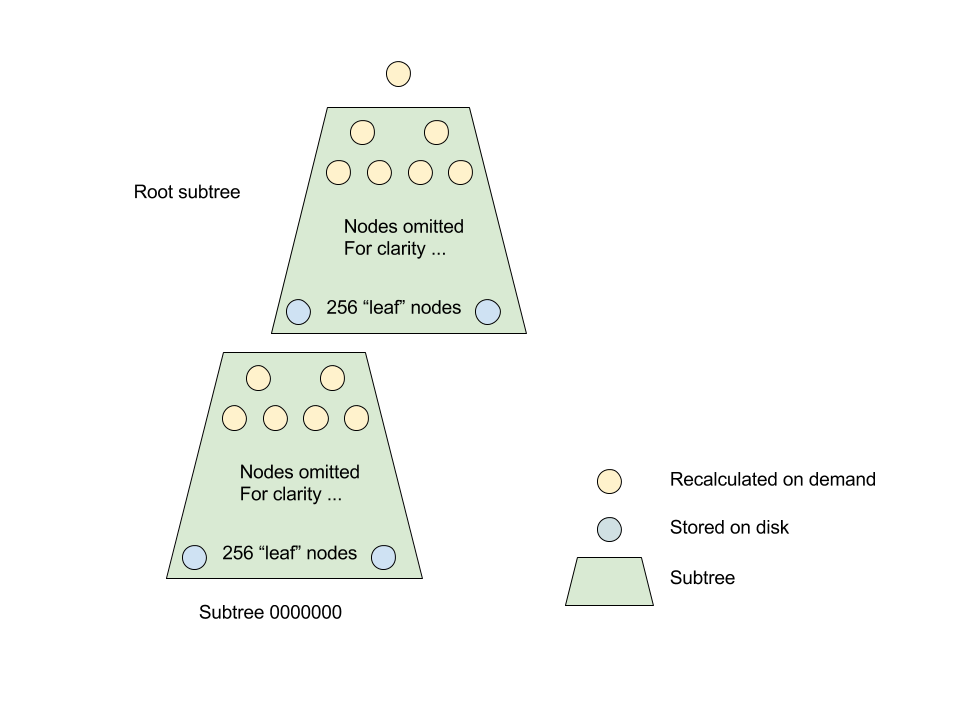
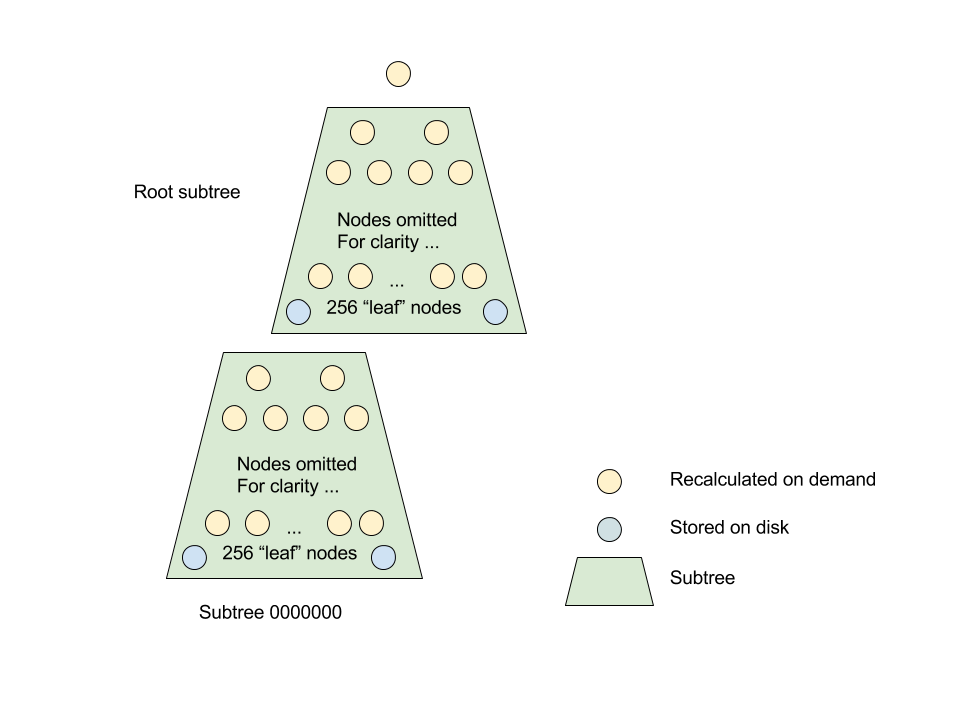
Many review related fixes.

Changed region(s): [[0.3125, 0.275, 0.5312, 0.4583], [0.2188, 0.6417, 0.375, 0.7639], [0.3438, 0.7028, 0.4062, 0.7639]]

diff --git a/docs/storage/storage.md b/docs/storage/storage.md
@@ -9,25 +9,32 @@ verifiable logs and maps. Most users will not need this level but it is importan
 concepts involved. The API for this is defined in `storage/tree_storage.go`. Related protos are in
 the `storage/storagepb` package.
 
-The model provides a versioned view of the tree. Revision numbers increase monotonically as the
-tree is mutated.
+The model provides a versioned view of the tree. Each transaction that modifies the tree results
+in a new revision. Revision numbers increase monotonically as the tree is mutated. 
 
 ### NodeIDs
 
 Nodes in storage are uniquely identified by a `NodeID`. This combines a tree path with
-a revision number. The path is effectively used as a bitwise subtree prefix in the tree. 
+a revision number. The path is effectively used as a bitwise subtree prefix in the tree.
+In our subtree storage optimization the path prefix identifies the subtree and the remaining
+path is the path to the node within that subtree.
 
 The same `NodeID` objects are used by both logs and maps but they are interpreted differently.
 There are API functions that create them for each case. Mixing node ID types in API calls will
 give incorrect results.
 
-### Subtree Compaction
+### Subtree Stratification
 
-As an optimization the tree is not stored as a set of raw nodes but at as a collection of subtrees.
+As an optimization, the tree is not stored as a set of raw nodes but at as a collection of subtrees.
 
 Currently, subtrees must be be a multiple of 8 levels deep (referred to as `strataDepth` in the
-code). Only the bottom level nodes the "leaves" of the subtree are physically stored.
-Intermediate subtree nodes are rehashed from the "leaves" when the subtree is loaded into memory.
+code) so it's not allowed to have e.g. a 7 level depth but 8 or 16 is fine. Only the bottom level 
+nodes (the "leaves") of each subtree are physically stored. Intermediate subtree nodes are rehashed from the "leaves" when the subtree is loaded into memory.
+See `storage/cache/subtree_cache.go` for more details.
+
+This storage arrangement was chosen because we have predictable access patterns to our data and do
+not require classes of tree modification like re-parenting a subtree. It would probably not be
+suitable for a general purpose tree.
 
 Subtrees are keyed by the `NodeID` of the root (effectively a path prefix) and contain the
 intermediate nodes for that subtree, identified by their suffix. These are actually stored in a
@@ -38,16 +45,20 @@ the model are distinct because the path to a subtree must be unique.
 
 When node updates are applied they will affect one or more subtrees and caching is used to increase
 efficiency. After all updates have been done in-memory the cache is flushed to storage so each
-affected subtree is only written once.
+affected subtree is only written once. All writes for a transaction will be at the same revision
+number.
 
 Subtrees are helpful for reads because it is likely that many of the nodes traversed in
 Merkle paths for proofs are part of the same subtree. The number of subtrees involved in a path
 through a large tree from the leaves to the root is also bounded. For writes the subtree update
 batches what would be many smaller writes into one larger but manageable one.
 
-We gain space efficiency by not storing intermediate nodes. This is a big saving as it avoids
-storing entire tree levels, which get very large as the tree grows. This is magnified further as we
-store many versions of the tree.
+We gain space efficiency by not storing intermediate nodes. This is a big saving, especially for
+log storage. It avoids storing entire tree levels, which get very large as the tree grows. This
+adds up to an approx 50% space saving. This is magnified further as we store many versions of the
+tree. For the map case things aren't quite as good because multiple subtree revisions need to be
+stored with the same prefix but only one "leaf" node differing. The efficiency of this needs to
+be determined for large maps.
 
 #### Subtree Diagrams
 
@@ -56,20 +67,20 @@ This diagram shows a tree as it might actually be stored by our code using subtr
 Each subtree does not include its "root" node, though this counts as part of the depth. There are
 additional subtrees below and to the right of the child subtree shown, they can't easily be shown
 in the diagram. Obviously, there could be less than 256 "leaf" nodes in the subtrees if they are not
-yet fully populated.
+yet fully populated. A node always belongs to exactly one subtree, there is no overlap.
 
 ![strata depth 8 tree](StratumDepth8.png, "Stratum Depth 8")
 
-As it's hard to visualize the structure at scale with stratum depth 8 some examples of smaller
-depths might make things clearer, though these are not supported by the code the diagrams are
-much simpler.
+As it's hard to visualize the structure at scale with stratum depth 8, some examples of smaller
+depths might make things clearer. Though these are not supported by the current implementation
+the diagrams are much simpler.
 
-This diagram shows a tree with strata depth 2. It is a somewhat special case as all the levels are
+This diagram shows a tree with stratum depth 2. It is a somewhat special case as all the levels are
 stored. Note that the root node is never stored and is always recalculated.
 
 ![strata depth 2 tree diagram](StratumDepth2.png, "Stratum Depth 2")
 
-This diagram shows a tree with strata depth 3. Note that only the bottom level of each subtree is
+This diagram shows a tree with stratum depth 3. Note that only the bottom level of each subtree is
 stored and how the binary path is used as a subtree prefix to identify subtrees.
 
 ![strata depth 3 tree diagram](StratumDepth3.png, "Stratum Depth 3")
@@ -94,8 +105,8 @@ Need stuff here.
 The node tree built for a log is a representation of a Merkle Tree, which starts out empty and grows
 as leaves are added. A Merkle Tree of a specific size is a fixed and well-defined shape.
                      
-Leaves are never removed and a completely filled in left subtree of the tree
-structure is never further mutated. 
+Leaves are never removed and a completely populated left subtree of the tree structure is never
+further mutated. 
 
 The log stores two hashes per leaf, a raw SHA256 hash of the leaf data used for deduplication and
 the Merkle Leaf Hash of the data, which becomes part of the tree.
@@ -106,46 +117,53 @@ Log nodes are notionally addressed using a three dimensional coordinate tuple (l
 in level, revision number).
 
 Level zero is always the leaf level and additional intermediate levels are added above this as the
-tree grows. Levels are only created when they are used.
+tree grows. Such growth does not affect nodes written at a previous revision. Levels are only
+created when they are required. The level of a node is always the level in the overall tree. The
+`NodeID` coordinates are independent of any subtree storage optimization.
 
 Index is the horizontal position of the node in the level, with zero being the leftmost node in
 each level.
 
-For example in a tree of size two the leaves are level 0 and index 0 and 1 and the root is
-level 1, index 0.
+For example in a tree of size two the leaves are (level 0, index 0) and (level 0, index 1) and the
+root is (level 1, index 0).
 
 The storage implementation must be able to provide access to nodes using this coordinate scheme but
-it is not required to store them this way. The current implementation collapses subtrees for
-increased write efficiency so nodes are not distinct database entities, this is hidden by the node
+it is not required to store them this way. The current implementation compacts subtrees for
+increased write efficiency so nodes are not distinct database entities. This is hidden by the node
 API.
 
 ### Log Startup
 
 When log storage is intialized and its tree is not empty the existing state is loaded into a
-`compact_merkle_tree`. This can be done efficiently and only requires a few node accesses. As a
-crosscheck the root hash of the compact tree is compared against the current log root. If it does
-not match then log is corrupt and cannot be used.
+`compact_merkle_tree`. This can be done efficiently and only requires a few node accesses to
+restore the tree state by reading intermediate hashes at each tree level. 
+
+As a crosscheck the root hash of the compact tree is compared against the current log root. If it
+does not match then log is corrupt and cannot be used.
 
 ### Writing Leaves and Sequencing
 
-In the current RDBMS storage implementation log clients queue new leaves to the log, and the 
-`LeafData` record is created. Further writes are coordinated by a single sequencer, which adds 
-leaves to the tree. The sequencer is responsible for ordering the leaves and creating the 
-`SequencedLeafData` row linking the leaf and its sequence number. If there are duplicate leaves in
-the log then they share `LeafData` rows. Leaves that have not been sequenced are not accessible 
-via the log APIs.
+In the current RDBMS storage implementation log clients queue new leaves to the log, and a 
+`LeafData` record is created. Further writes to the Merkle Tree are coordinated by the sequencer,
+which adds leaves to the tree. The sequencer is responsible for ordering the leaves and creating
+the `SequencedLeafData` row linking the leaf and its sequence number. If there are duplicate leaves
+in the log then they share `LeafData` rows. Queued submissions that have not been sequenced are not
+accessible via the log APIs.
 
 When leaves are added to the tree they are processed by a `merkle/compact_merkle_tree`, this causes a
 batched set of tree node updates to be applied. Each update is given its own revision number. The
 result is that a number of tree snapshots are directly available in storage. This contrasts with
-previous implementations where the tree is in RAM and only the most recent snapshot is directly
+[previous implementations](https://github.com/google/certificate-transparency/blob/master/cpp/merkletree/)
+for Certificate Transparency where the tree is in RAM and only the most recent snapshot is directly
 available. Note that we may batch log updates so we don't necessarily have all intermediate tree
 snapshots directly available from storage.
 
 As an optimization intermediate nodes with only a left child are not stored. There is more detail
-on how this affects access to tree paths in the file `merkle/merkle_paths.go`. This differes from
-the previous C++ in-memory tree implementation. In summary the code must handle cases where there
-is no right sibling of the rightmost node in a level.
+on how this affects access to tree paths in the file `merkle/merkle_paths.go`. This differs from
+the 
+[Certificate Transparency C++](https://github.com/google/certificate-transparency/blob/master/cpp/merkletree/merkle_tree.h)
+in-memory tree implementation. In summary the code must handle cases where there is no right
+sibling of the rightmost node in a level.
 
 Each batched write also produces an internal tree head, linking that write to the revision number.
 
